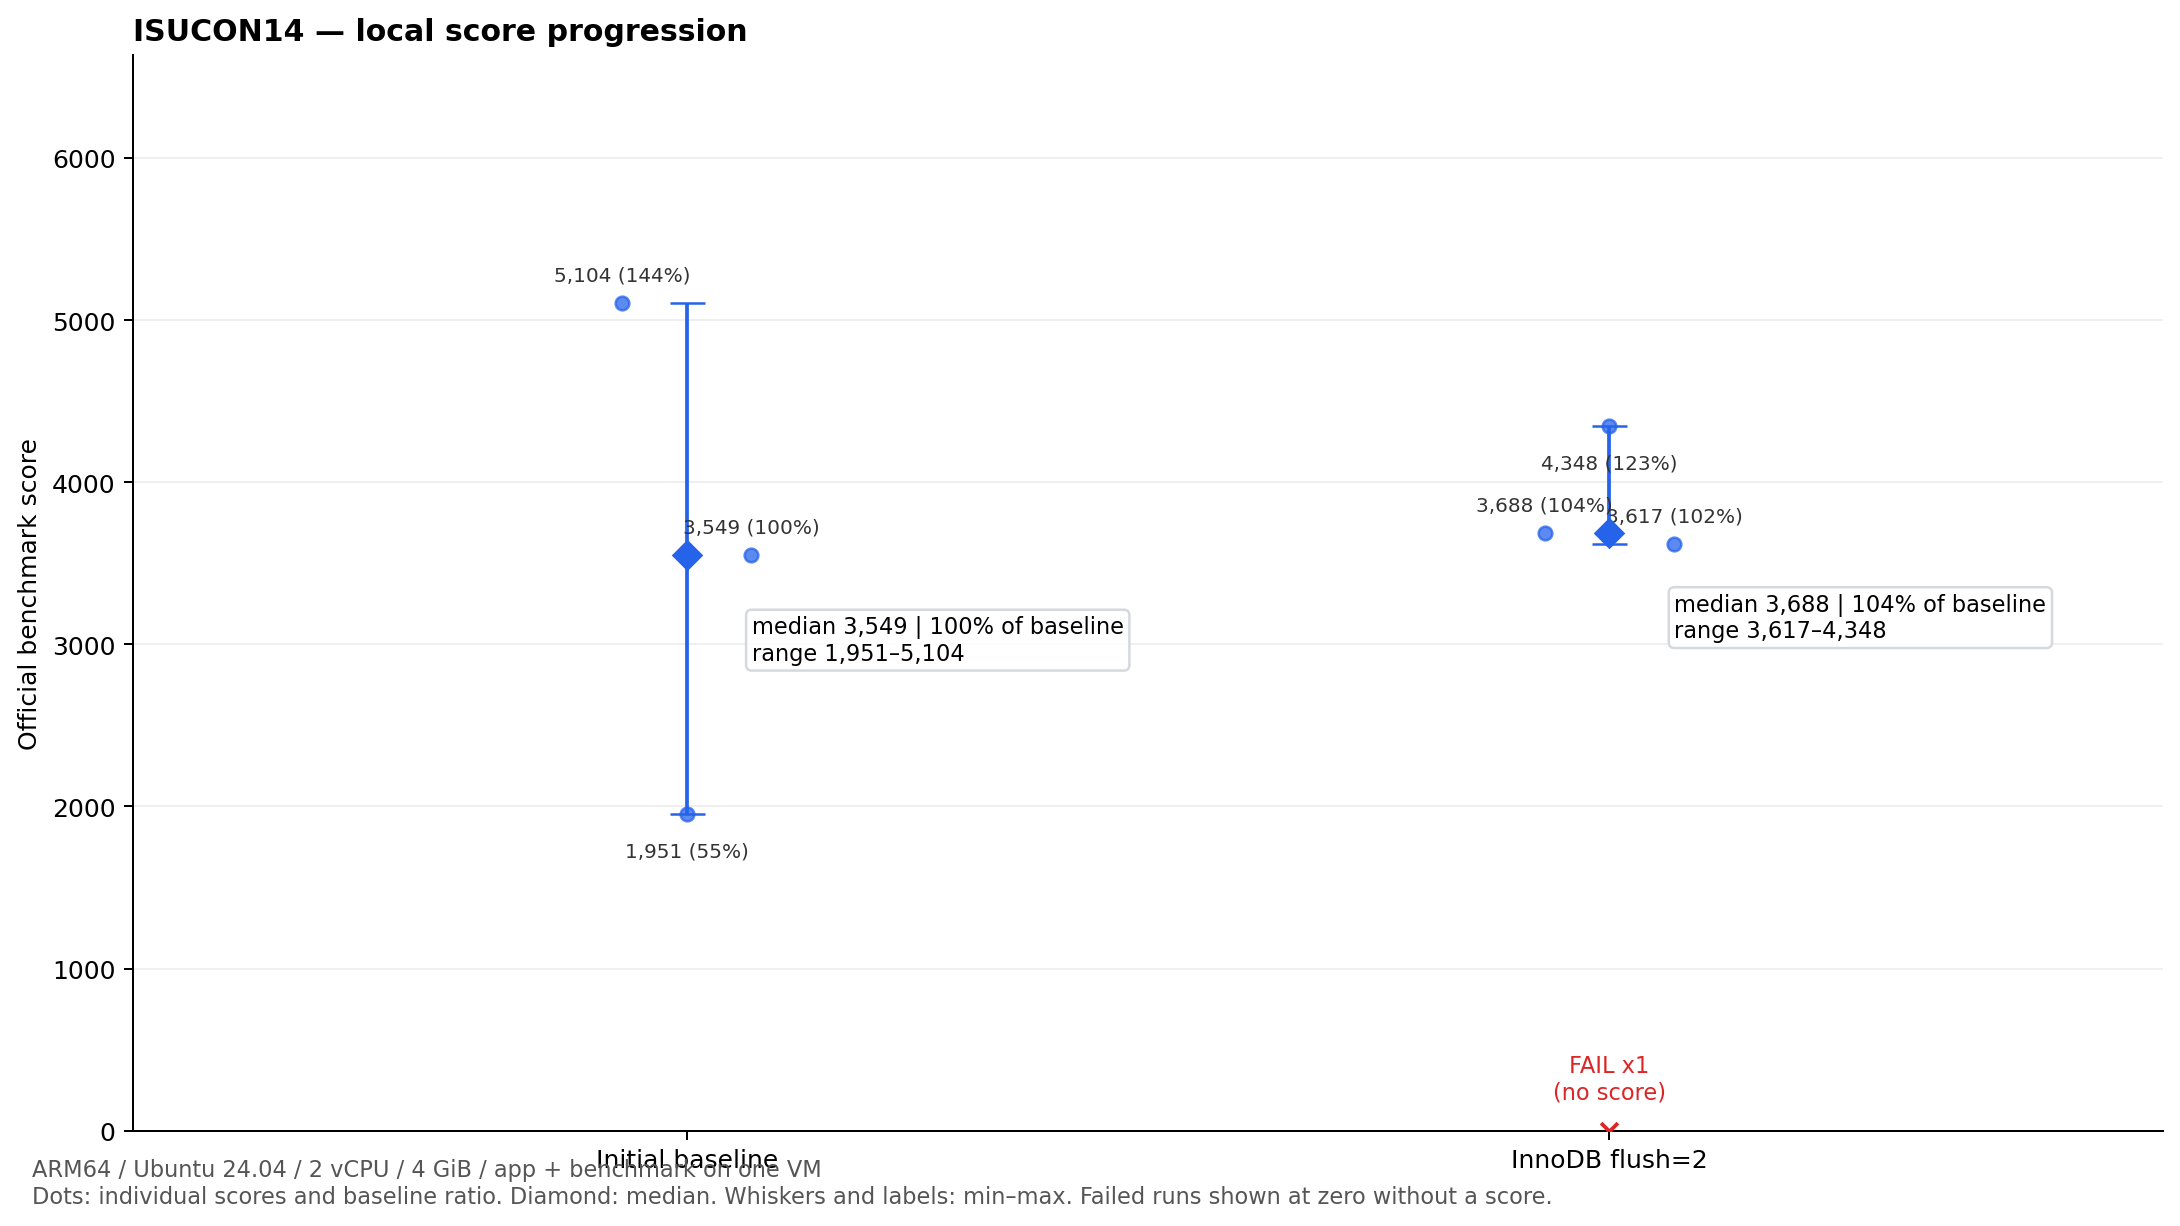
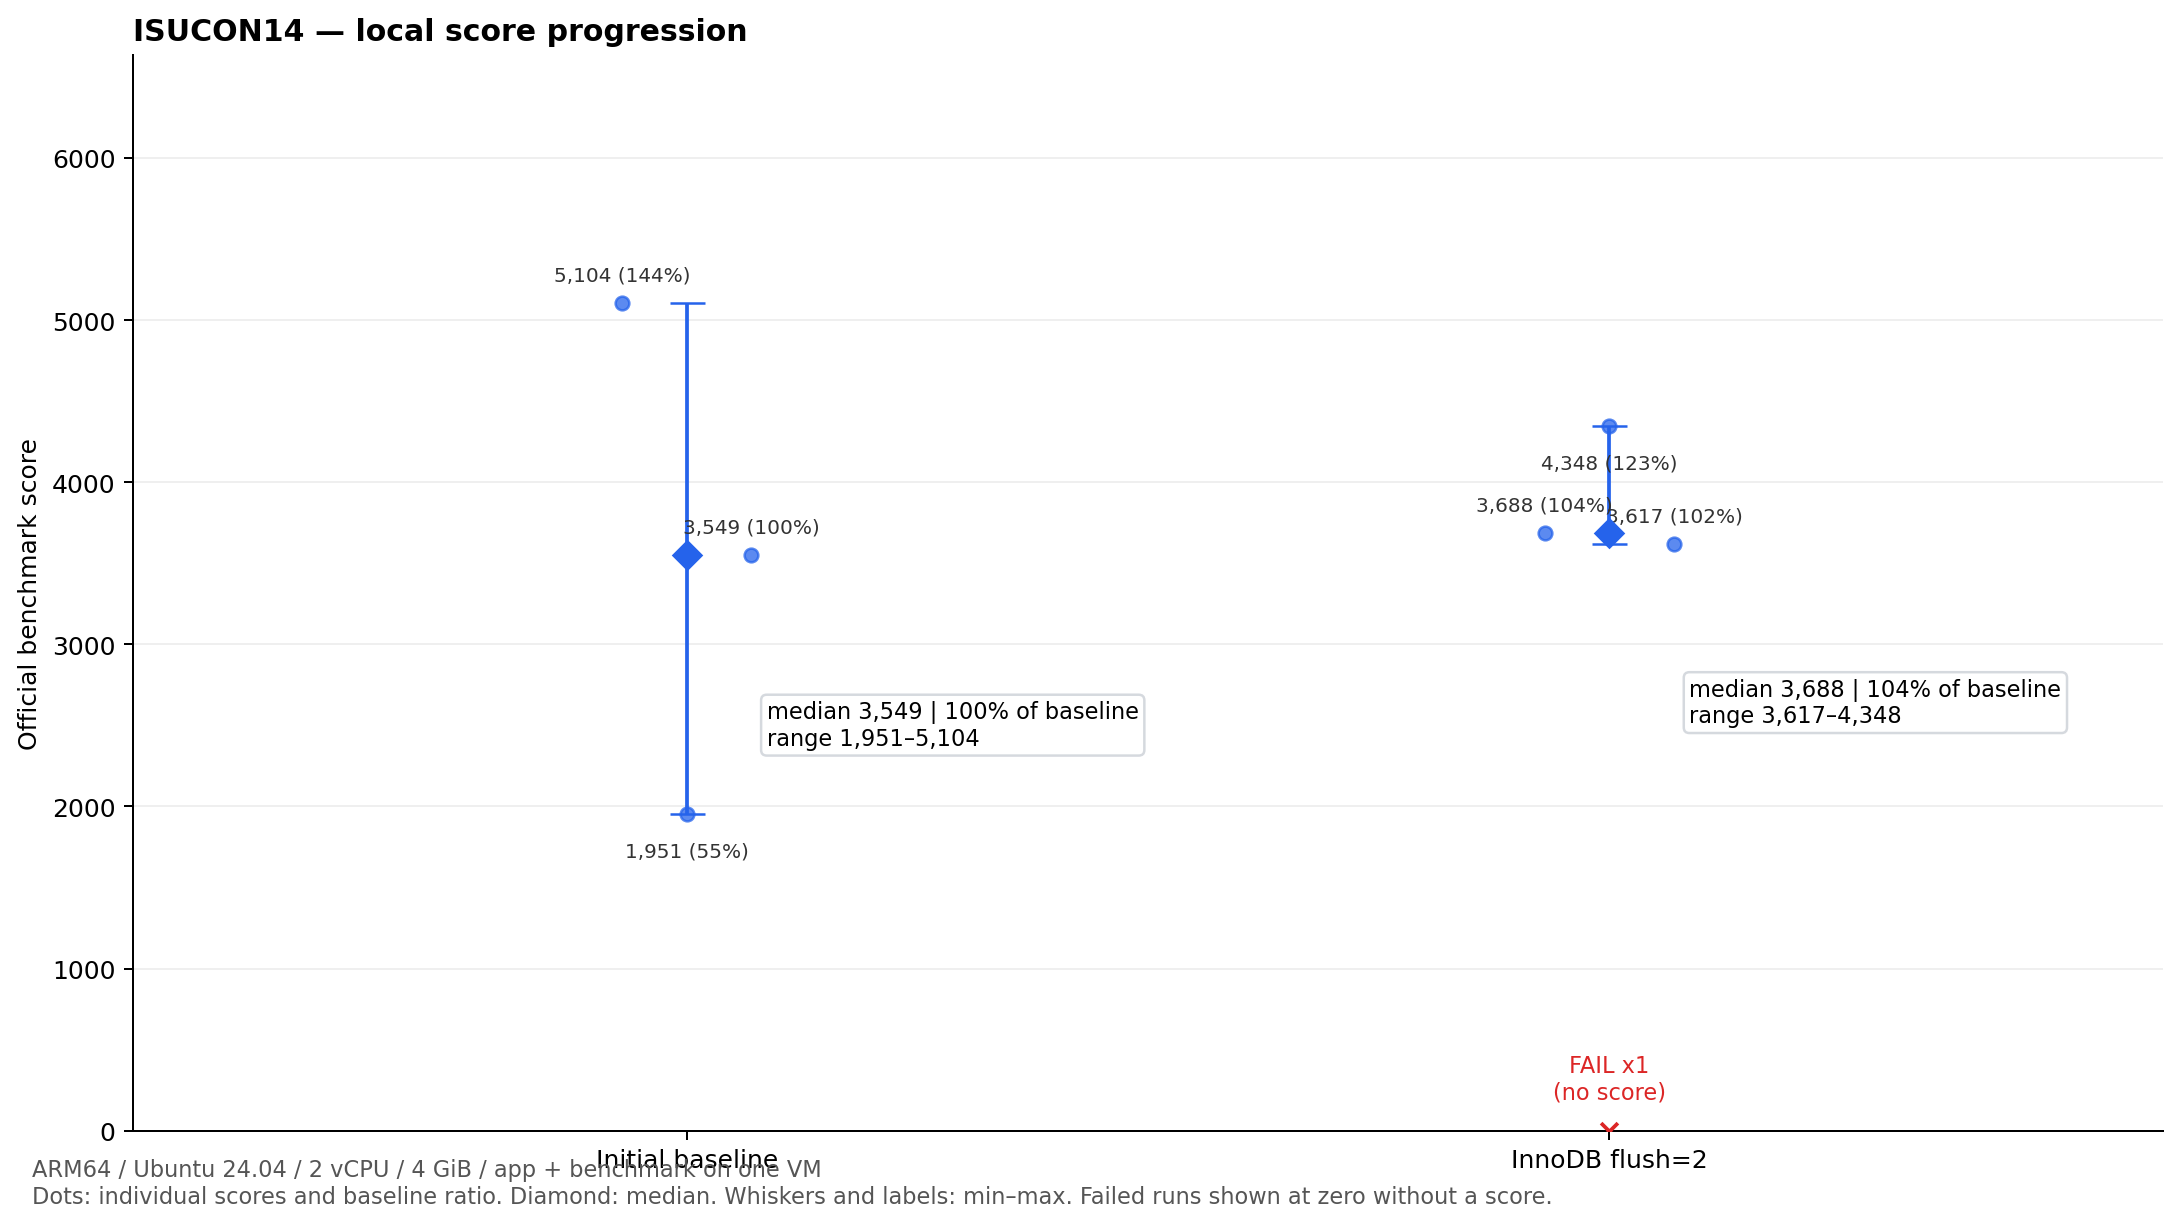
スコア注釈の重なりを解消

Changed region(s): [[0.3431, 0.4959, 0.5303, 0.6199], [0.7798, 0.4649, 0.9358, 0.5889]]

diff --git a/local-benchmark/tools/plot_scores.py b/local-benchmark/tools/plot_scores.py
@@ -39,7 +39,7 @@ for x, stage in enumerate(present):
         base_ratio = f" | {median / base:.0%} of baseline" if base else ""
         ax.annotate(
             f"median {median:,.0f}{base_ratio}\nrange {min(scores):,}–{max(scores):,}",
-            (x, median), xytext=(26, -24), textcoords="offset points", ha="left", va="top", fontsize=9,
+            (x, median), xytext=(32, -58), textcoords="offset points", ha="left", va="top", fontsize=9,
             bbox={"boxstyle": "round,pad=0.25", "facecolor": "white", "edgecolor": "#d1d5db", "alpha": .9},
         )
     failures = sum(r["status"] == "failed" for r in rows)
